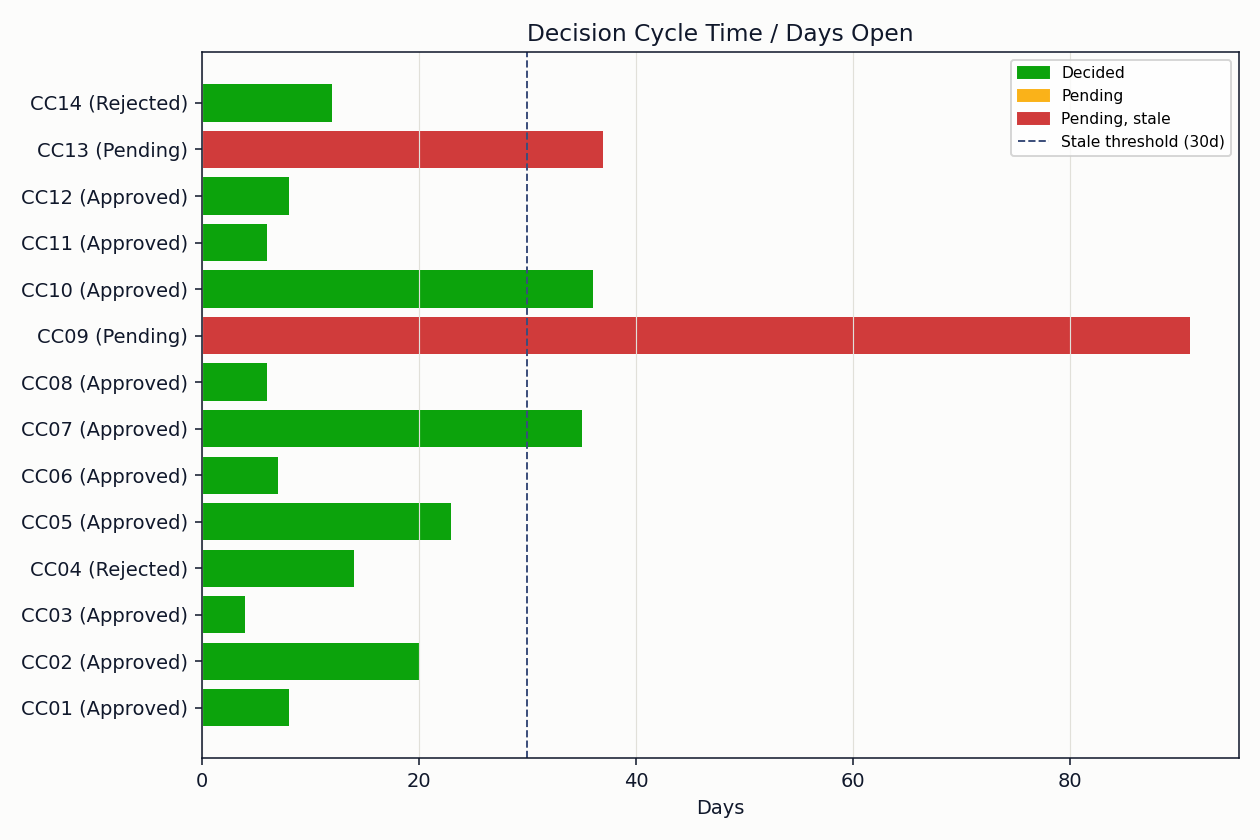
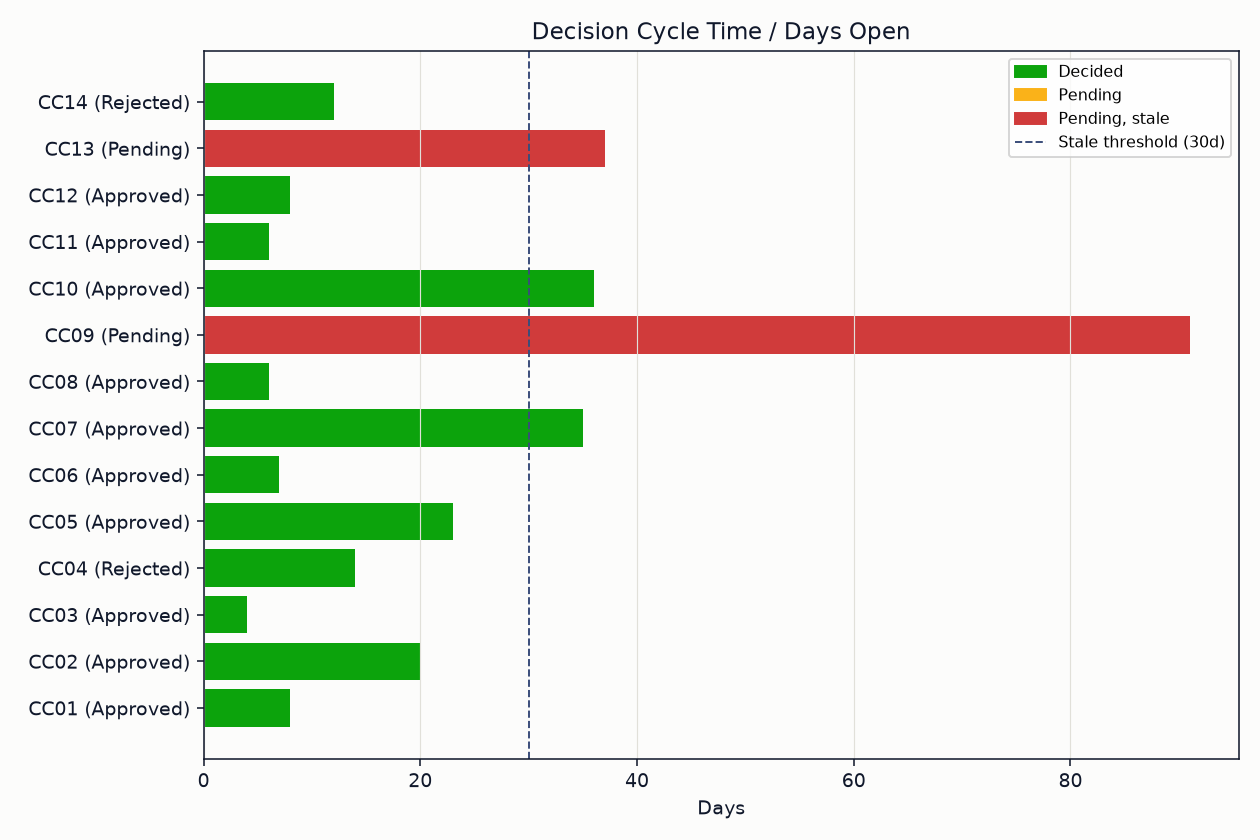
Remove dead cum param, extract chart style module
print_report/write_report_markdown took a cum argument neither function
read; dropped from both signatures and their call sites. Extracted the
duplicated chart chrome helper and color constants into src/chart_style.py
(vendored copy of project-controls-dashboard's canonical version). No
behavior change.

diff --git a/change_control.py b/change_control.py
@@ -15,39 +15,12 @@ import os
 import matplotlib.pyplot as plt
 import pandas as pd
 
-from src import metrics
+from src import chart_style, metrics
 
 DATA_DIR = os.path.join(os.path.dirname(__file__), "data")
 ASSETS_DIR = os.path.join(os.path.dirname(__file__), "assets")
 
 STATUS_DATE = "2026-08-01"
-
-# Standardized chart color system (chart chrome, status scale, categorical series, baseline)
-CHART_BG = "#fcfcfb"
-INK = "#10182b"
-GRID = "#e1e0d9"
-BASELINE = "#3a4d7a"
-SERIES_1 = "#2a78d6"
-STATUS_GOOD = "#0ca30c"
-STATUS_WARNING = "#fab219"
-STATUS_CRITICAL = "#d03b3b"
-
-
-def _apply_chrome(fig, axes) -> None:
-    """Apply the standardized chart chrome (background, ink, gridlines) to a figure."""
-    fig.patch.set_facecolor(CHART_BG)
-    if hasattr(axes, "flatten"):
-        axes = axes.flatten().tolist()
-    elif not isinstance(axes, (list, tuple)):
-        axes = [axes]
-    for ax in axes:
-        ax.set_facecolor(CHART_BG)
-        ax.title.set_color(INK)
-        ax.xaxis.label.set_color(INK)
-        ax.yaxis.label.set_color(INK)
-        ax.tick_params(colors=INK)
-        for spine in ax.spines.values():
-            spine.set_color(INK)
 
 
 def money(x: float) -> str:
@@ -69,7 +42,7 @@ def timing_str(row, stale_marker: str = "[STALE]") -> str:
     return "decided in N/A"
 
 
-def print_report(changes, cum, stats: dict) -> None:
+def print_report(changes, stats: dict) -> None:
     print("=" * 64)
     print("CHANGE CONTROL REPORT")
     print("=" * 64)
@@ -102,16 +75,16 @@ def print_report(changes, cum, stats: dict) -> None:
 def chart_cumulative(cum, value_col: str, ylabel: str, title: str, filename: str) -> None:
     fig, ax = plt.subplots(figsize=(9, 5))
     ax.step(cum["date_decided"].to_numpy(), cum[value_col].to_numpy(), where="post",
-            color=SERIES_1, linewidth=2)
-    ax.scatter(cum["date_decided"].to_numpy(), cum[value_col].to_numpy(), color=SERIES_1, s=20, zorder=3)
-    ax.axhline(0, color=INK, linewidth=0.8, alpha=0.6)
+            color=chart_style.SERIES_1, linewidth=2)
+    ax.scatter(cum["date_decided"].to_numpy(), cum[value_col].to_numpy(), color=chart_style.SERIES_1, s=20, zorder=3)
+    ax.axhline(0, color=chart_style.INK, linewidth=0.8, alpha=0.6)
     ax.set_ylabel(ylabel)
     ax.set_title(title)
-    ax.grid(color=GRID, linewidth=0.6)
-    _apply_chrome(fig, ax)
+    ax.grid(color=chart_style.GRID, linewidth=0.6)
+    chart_style.apply_chrome(fig, ax)
     fig.autofmt_xdate()
     fig.tight_layout()
-    fig.savefig(os.path.join(ASSETS_DIR, filename), dpi=140, facecolor=CHART_BG)
+    fig.savefig(os.path.join(ASSETS_DIR, filename), dpi=140, facecolor=chart_style.CHART_BG)
     plt.close(fig)
 
 
@@ -122,32 +95,32 @@ def chart_cycle_time(changes) -> None:
         labels.append(f"{row['change_id']} ({row['status']})")
         if row["status"] == "Pending":
             values.append(row["days_open"])
-            colors.append(STATUS_CRITICAL if row["is_stale"] else STATUS_WARNING)
+            colors.append(chart_style.STATUS_CRITICAL if row["is_stale"] else chart_style.STATUS_WARNING)
         else:
             values.append(row["cycle_days"])
-            colors.append(STATUS_GOOD)
+            colors.append(chart_style.STATUS_GOOD)
     ax.barh(labels, values, color=colors)
     threshold_line = ax.axvline(
-        metrics.STALE_PENDING_DAYS, color=BASELINE, linestyle="--", linewidth=1,
+        metrics.STALE_PENDING_DAYS, color=chart_style.BASELINE, linestyle="--", linewidth=1,
         label=f"Stale threshold ({metrics.STALE_PENDING_DAYS}d)",
     )
     ax.set_xlabel("Days")
     ax.set_title("Decision Cycle Time / Days Open")
     handles = [
-        plt.Rectangle((0, 0), 1, 1, color=STATUS_GOOD, label="Decided"),
-        plt.Rectangle((0, 0), 1, 1, color=STATUS_WARNING, label="Pending"),
-        plt.Rectangle((0, 0), 1, 1, color=STATUS_CRITICAL, label="Pending, stale"),
+        plt.Rectangle((0, 0), 1, 1, color=chart_style.STATUS_GOOD, label="Decided"),
+        plt.Rectangle((0, 0), 1, 1, color=chart_style.STATUS_WARNING, label="Pending"),
+        plt.Rectangle((0, 0), 1, 1, color=chart_style.STATUS_CRITICAL, label="Pending, stale"),
         threshold_line,
     ]
     ax.legend(handles=handles, fontsize=8)
-    ax.grid(color=GRID, linewidth=0.6, axis="x")
-    _apply_chrome(fig, ax)
+    ax.grid(color=chart_style.GRID, linewidth=0.6, axis="x")
+    chart_style.apply_chrome(fig, ax)
     fig.tight_layout()
-    fig.savefig(os.path.join(ASSETS_DIR, "cycle_time.png"), dpi=140, facecolor=CHART_BG)
+    fig.savefig(os.path.join(ASSETS_DIR, "cycle_time.png"), dpi=140, facecolor=chart_style.CHART_BG)
     plt.close(fig)
 
 
-def write_report_markdown(changes, cum, stats: dict) -> None:
+def write_report_markdown(changes, stats: dict) -> None:
     lines = [
         "# Change Control Report",
         "",
@@ -188,14 +161,14 @@ def main() -> None:
     cum = metrics.cumulative_impact(changes)
     stats = metrics.summary_stats(changes)
 
-    print_report(changes, cum, stats)
+    print_report(changes, stats)
 
     chart_cumulative(cum, "cum_cost", "Cumulative approved cost impact ($)",
                       "Budget Creep: Cumulative Approved Cost Impact", "cumulative_cost.png")
     chart_cumulative(cum, "cum_schedule_days", "Cumulative approved schedule impact (days)",
                       "Schedule Creep: Cumulative Approved Schedule Impact", "cumulative_schedule.png")
     chart_cycle_time(changes)
-    write_report_markdown(changes, cum, stats)
+    write_report_markdown(changes, stats)
 
     print()
     print("-" * 64)

diff --git a/src/chart_style.py b/src/chart_style.py
@@ -1,0 +1,39 @@
+"""Standardized chart color system and chrome (chart chrome, status scale, baseline/reference).
+
+This module is identical, byte-for-byte, across all six repos in the
+github.com/alexc-hue project-controls toolkit (schedule-health-analyzer,
+project-controls-dashboard, change-control-register, risk-trend-tracker,
+project-controls-reporting-engine, recovery-scenario-planner). Each repo
+carries its own copy so it stays independently cloneable and runnable
+without pulling in the others, the same rationale the vendored engines
+already document. project-controls-dashboard is the canonical source; if
+the palette changes, update it there first and re-sync the rest.
+"""
+
+from __future__ import annotations
+
+CHART_BG = "#fcfcfb"
+INK = "#10182b"
+GRID = "#e1e0d9"
+BASELINE = "#3a4d7a"
+SERIES_1 = "#2a78d6"
+STATUS_GOOD = "#0ca30c"
+STATUS_WARNING = "#fab219"
+STATUS_CRITICAL = "#d03b3b"
+
+
+def apply_chrome(fig, axes) -> None:
+    """Apply the standardized chart chrome (background, ink, gridlines) to a figure."""
+    fig.patch.set_facecolor(CHART_BG)
+    if hasattr(axes, "flatten"):
+        axes = axes.flatten().tolist()
+    elif not isinstance(axes, (list, tuple)):
+        axes = [axes]
+    for ax in axes:
+        ax.set_facecolor(CHART_BG)
+        ax.title.set_color(INK)
+        ax.xaxis.label.set_color(INK)
+        ax.yaxis.label.set_color(INK)
+        ax.tick_params(colors=INK)
+        for spine in ax.spines.values():
+            spine.set_color(INK)
